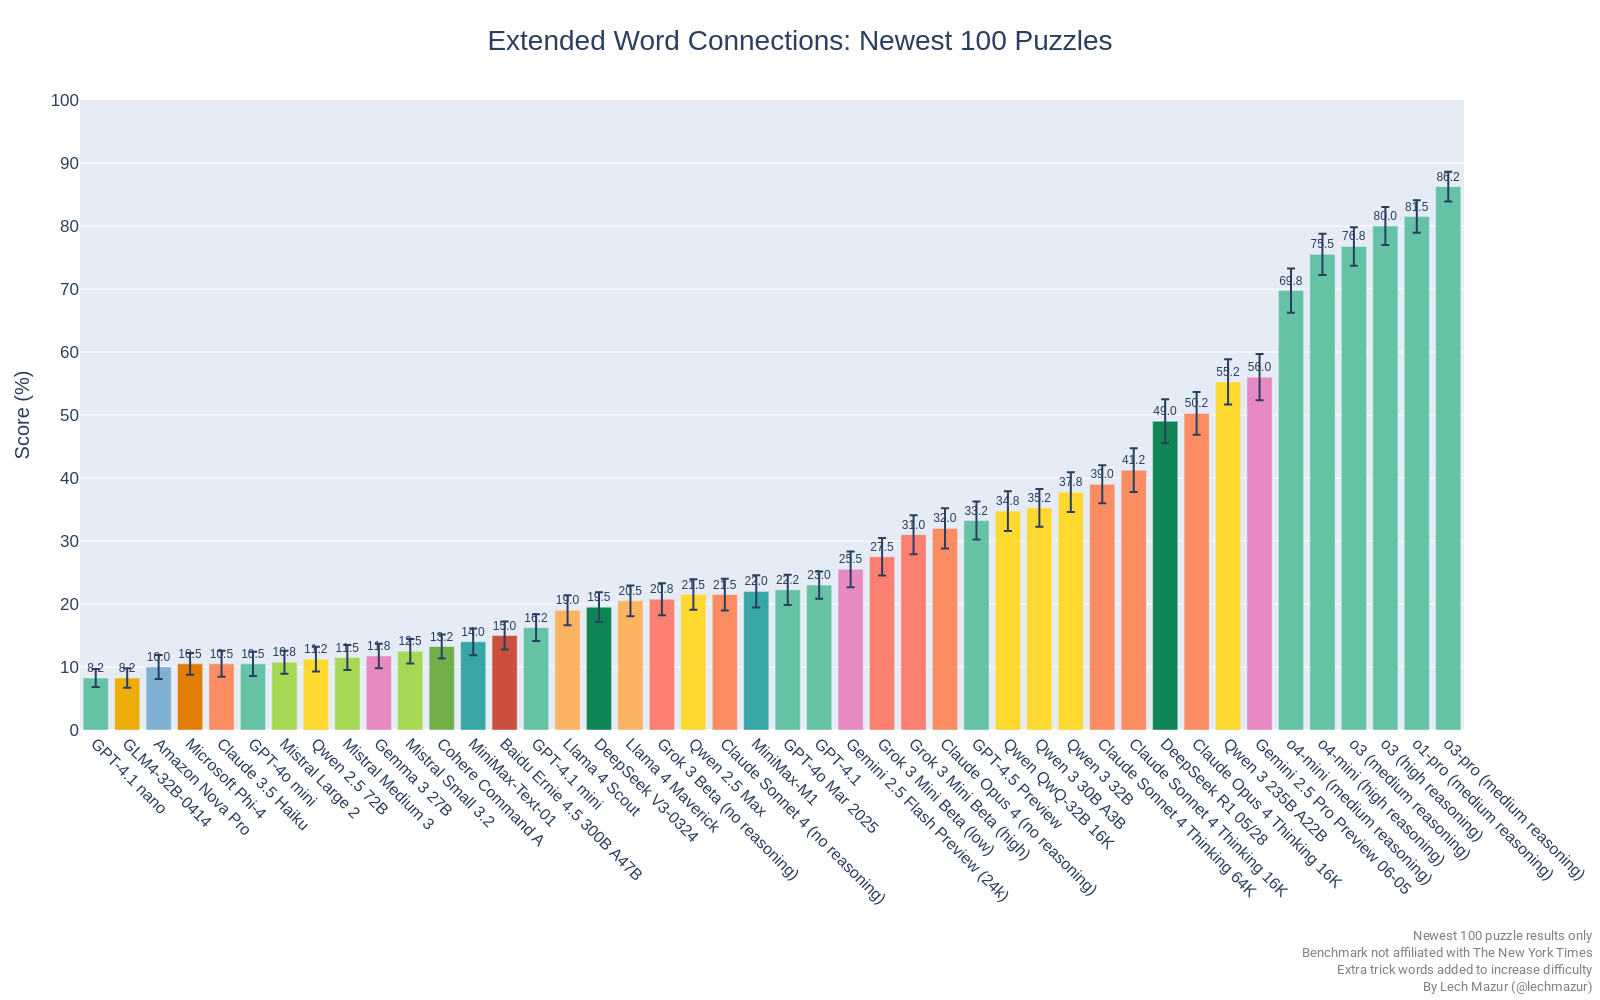
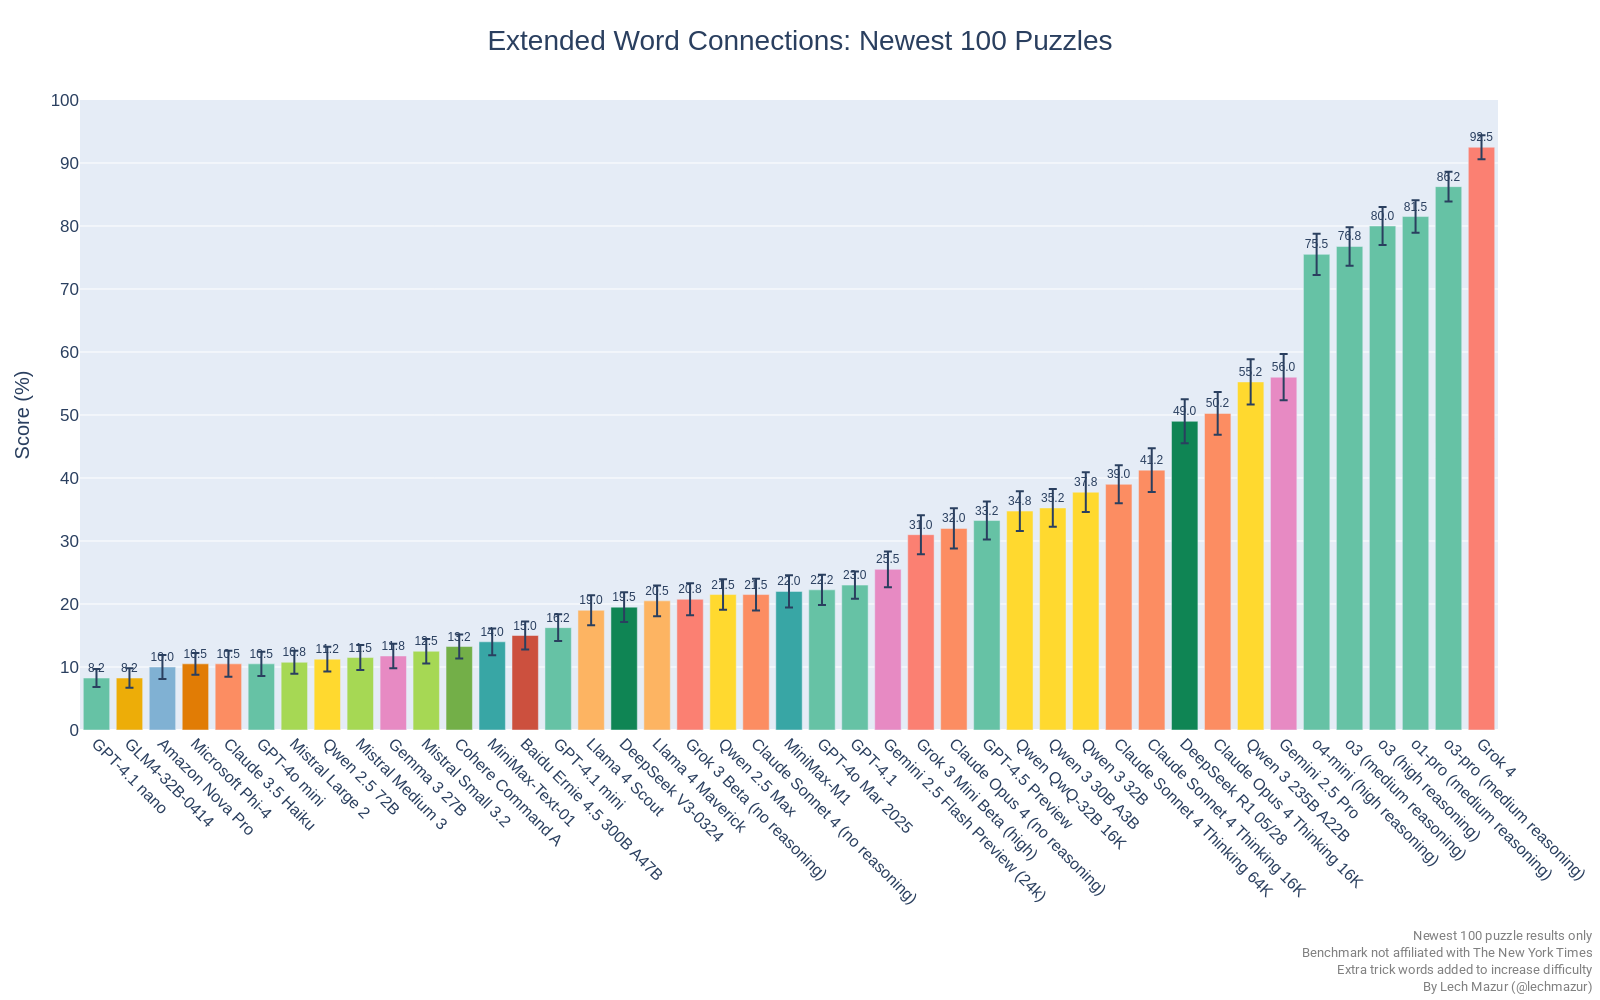
Grok 4

Changed region(s): [[0.0625, 0.093, 0.9688, 0.899]]

diff --git a/README.md b/README.md
@@ -12,78 +12,78 @@ As of Feb 4, 2025, there is a new version of the benchmark. The standard NYT Con
 
 |Rank|Model|Score %|#Puzzles|
 |---:|-----|------:|-------:|
-|1|o3-pro (medium reasoning)|87.3|651|
-|2|o1-pro (medium reasoning)|82.5|651|
-|3|o3 (high reasoning)|79.5|651|
-|4|o4-mini (high reasoning)|74.7|651|
-|5|o3 (medium reasoning)|74.0|651|
-|6|o1 (medium reasoning)|70.8|651|
-|7|o4-mini (medium reasoning)|68.8|651|
-|8|o3-mini (high reasoning)|61.4|651|
-|9|Gemini 2.5 Pro Preview 06-05|58.7|651|
-|10|Qwen 3 235B A22B|55.6|651|
-|11|Gemini 2.5 Pro Exp 03-25|54.1|651|
-|12|o3-mini (medium reasoning)|53.6|651|
-|13|Claude Opus 4 Thinking 16K|52.7|651|
-|14|DeepSeek R1 05/28|49.8|651|
-|15|Gemini 2.5 Pro Preview 05-06|42.5|651|
-|16|Claude Sonnet 4 Thinking 16K|41.4|651|
-|17|Claude Sonnet 4 Thinking 64K|39.6|651|
-|18|DeepSeek R1|38.6|651|
-|19|Qwen 3 30B A3B|38.0|651|
-|20|Qwen 3 32B|37.0|651|
-|21|Claude Opus 4 (no reasoning)|34.8|651|
-|22|GPT-4.5 Preview|34.2|651|
-|23|Claude 3.7 Sonnet Thinking 16K|33.6|651|
-|24|Qwen QwQ-32B 16K|31.4|651|
-|25|Grok 3 Mini Beta (high)|30.9|651|
-|26|o1-mini|26.9|651|
-|27|Grok 3 Mini Beta (low)|26.0|651|
-|28|Gemini 2.5 Flash Preview (24k)|25.8|651|
-|29|Claude Sonnet 4 (no reasoning)|25.7|651|
-|30|Quasar Alpha|25.4|651|
-|31|GPT-4o Mar 2025|25.2|651|
-|32|GPT-4.1|23.6|651|
-|33|Gemini 2.0 Flash Think Exp 01-21|23.1|649|
-|34|GPT-4o Feb 2025|22.7|651|
-|35|Gemini 2.0 Pro Exp 02-05|21.7|651|
-|36|MiniMax-M1|21.4|651|
-|37|Grok 3 Beta (no reasoning)|20.3|651|
-|38|Grok 2 12-12|19.2|651|
-|39|Gemini 1.5 Pro (Sept)|19.2|601|
-|40|Claude 3.7 Sonnet|19.2|651|
-|41|Claude 3 Opus|19.2|651|
-|42|Llama 4 Maverick|19.1|651|
-|43|Gemini 2.0 Flash|18.8|651|
-|44|GPT-4o 2024-11-20|18.7|601|
-|45|Qwen 2.5 Max|18.0|651|
-|46|Llama 4 Scout|17.9|651|
-|47|GPT-4o 2024-08-06|17.8|601|
-|48|Claude 3.5 Sonnet 2024-10-22|17.7|651|
-|49|DeepSeek V3-0324|17.4|651|
-|50|Llama 3.1 405B|16.2|651|
-|51|Baidu Ernie 4.5 300B A47B|15.2|651|
-|52|DeepSeek V3|15.1|651|
-|53|Llama 3.3 70B|15.1|651|
-|54|GPT-4.1 mini|15.1|651|
-|55|MiniMax-Text-01|14.6|651|
-|56|Cohere Command A|13.6|651|
-|57|Mistral Large 2|12.6|651|
-|58|Gemma 2 27B|12.2|651|
-|59|Gemma 3 27B|11.8|651|
-|60|Mistral Small 3.2|11.5|651|
-|61|Mistral Medium 3|11.4|651|
-|62|Mistral Small 3.1|11.4|651|
-|63|Qwen 2.5 72B|11.1|651|
-|64|Claude 3.5 Haiku|10.3|651|
-|65|Microsoft Phi-4|10.2|651|
-|66|Amazon Nova Pro|10.1|651|
-|67|GPT-4o mini|9.9|651|
-|68|Mistral Small 3|8.9|601|
-|69|GPT-4.1 nano|8.6|651|
-|70|GLM4-32B-0414|7.8|651|
-|71|Claude 3 Haiku|2.2|601|
-
+|1|Grok 4|92.4|651|
+|2|o3-pro (medium reasoning)|87.3|651|
+|3|o1-pro (medium reasoning)|82.5|651|
+|4|o3 (high reasoning)|79.5|651|
+|5|o4-mini (high reasoning)|74.7|651|
+|6|o3 (medium reasoning)|74.0|651|
+|7|o1 (medium reasoning)|70.8|651|
+|8|o4-mini (medium reasoning)|68.8|651|
+|9|o3-mini (high reasoning)|61.4|651|
+|10|Gemini 2.5 Pro|58.7|651|
+|11|Qwen 3 235B A22B|55.6|651|
+|12|Gemini 2.5 Pro Exp 03-25|54.1|651|
+|13|o3-mini (medium reasoning)|53.6|651|
+|14|Claude Opus 4 Thinking 16K|52.7|651|
+|15|DeepSeek R1 05/28|49.8|651|
+|16|Gemini 2.5 Pro Preview 05-06|42.5|651|
+|17|Claude Sonnet 4 Thinking 16K|41.4|651|
+|18|Claude Sonnet 4 Thinking 64K|39.6|651|
+|19|DeepSeek R1|38.6|651|
+|20|Qwen 3 30B A3B|38.0|651|
+|21|Qwen 3 32B|37.0|651|
+|22|Claude Opus 4 (no reasoning)|34.8|651|
+|23|GPT-4.5 Preview|34.2|651|
+|24|Claude 3.7 Sonnet Thinking 16K|33.6|651|
+|25|Qwen QwQ-32B 16K|31.4|651|
+|26|Grok 3 Mini Beta (high)|30.9|651|
+|27|o1-mini|26.9|651|
+|28|Grok 3 Mini Beta (low)|26.0|651|
+|29|Gemini 2.5 Flash Preview (24k)|25.8|651|
+|30|Claude Sonnet 4 (no reasoning)|25.7|651|
+|31|Quasar Alpha|25.4|651|
+|32|GPT-4o Mar 2025|25.2|651|
+|33|GPT-4.1|23.6|651|
+|34|Gemini 2.0 Flash Think Exp 01-21|23.1|649|
+|35|GPT-4o Feb 2025|22.7|651|
+|36|Gemini 2.0 Pro Exp 02-05|21.7|651|
+|37|MiniMax-M1|21.4|651|
+|38|Grok 3 Beta (no reasoning)|20.3|651|
+|39|Grok 2 12-12|19.2|651|
+|40|Gemini 1.5 Pro (Sept)|19.2|601|
+|41|Claude 3.7 Sonnet|19.2|651|
+|42|Claude 3 Opus|19.2|651|
+|43|Llama 4 Maverick|19.1|651|
+|44|Gemini 2.0 Flash|18.8|651|
+|45|GPT-4o 2024-11-20|18.7|601|
+|46|Qwen 2.5 Max|18.0|651|
+|47|Llama 4 Scout|17.9|651|
+|48|GPT-4o 2024-08-06|17.8|601|
+|49|Claude 3.5 Sonnet 2024-10-22|17.7|651|
+|50|DeepSeek V3-0324|17.4|651|
+|51|Llama 3.1 405B|16.2|651|
+|52|Baidu Ernie 4.5 300B A47B|15.2|651|
+|53|DeepSeek V3|15.1|651|
+|54|Llama 3.3 70B|15.1|651|
+|55|GPT-4.1 mini|15.1|651|
+|56|MiniMax-Text-01|14.6|651|
+|57|Cohere Command A|13.6|651|
+|58|Mistral Large 2|12.6|651|
+|59|Gemma 2 27B|12.2|651|
+|60|Gemma 3 27B|11.8|651|
+|61|Mistral Small 3.2|11.5|651|
+|62|Mistral Medium 3|11.4|651|
+|63|Mistral Small 3.1|11.4|651|
+|64|Qwen 2.5 72B|11.1|651|
+|65|Claude 3.5 Haiku|10.3|651|
+|66|Microsoft Phi-4|10.2|651|
+|67|Amazon Nova Pro|10.1|651|
+|68|GPT-4o mini|9.9|651|
+|69|Mistral Small 3|8.9|601|
+|70|GPT-4.1 nano|8.6|651|
+|71|GLM4-32B-0414|7.8|651|
+|72|Claude 3 Haiku|2.2|601|
 
 
 ---
@@ -187,6 +187,7 @@ This benchmark evaluates large language models (LLMs) using 436 NYT Connections 
 ---
 
 ## Updates
+- July 10, 2025: Grok 4 added.
 - July 3, 2025: Qwen 3 32B, GLM4-32B-0414 added.
 - July 2, 2025: Baidu Ernie 4.5 300B A47B, MiniMax-M1, Mistral Small 3.2 added.
 - June 10, 2025: o3-pro added.
